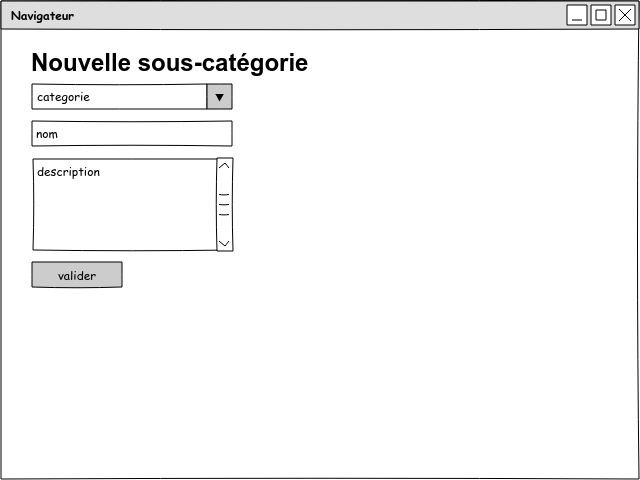
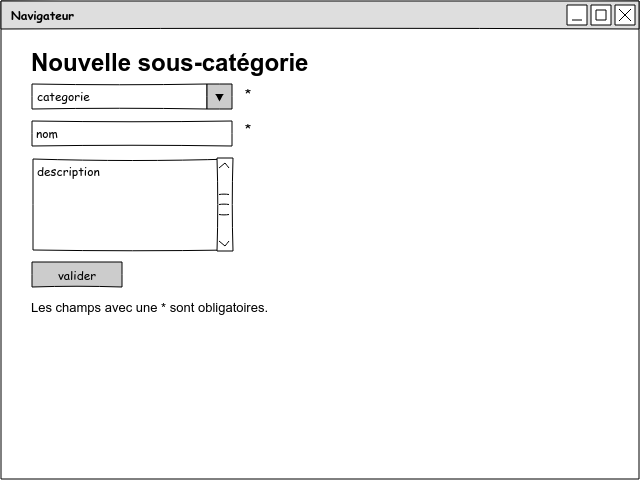
Improve code and doc

diff --git a/templates/new-tool.php b/templates/new-tool.php
@@ -6,6 +6,8 @@
 </head>
 <body>
 
+    <h1>Nouvel outil</h1>
+
     <form method="post" enctype="multipart/form-data">
         <div>
             <?php if (isset($errors['code'])): ?>
@@ -13,7 +15,7 @@
                 <?php echo $errors['code']; ?>
             </div>
             <?php endif; ?>
-            <input type="text" name="code" placeholder="code" value="<?php echo $code; ?>" />
+            <input type="text" name="code" placeholder="code" value="<?php echo $code; ?>" /> <span class="required">*</span>
         </div>
         <div>
             <?php if (isset($errors['name'])): ?>
@@ -21,7 +23,7 @@
                 <?php echo $errors['name']; ?>
             </div>
             <?php endif; ?>
-            <input type="text" name="name" placeholder="nom" value="<?php echo $name; ?>" />
+            <input type="text" name="name" placeholder="nom" value="<?php echo $name; ?>" /> <span class="required">*</span>
         </div>
         <div>
             <?php if (isset($errors['price'])): ?>
@@ -29,7 +31,7 @@
                 <?php echo $errors['price']; ?>
             </div>
             <?php endif; ?>
-            <input type="text" name="price" placeholder="prix" value="<?php echo $price; ?>" />
+            <input type="text" name="price" placeholder="prix" value="<?php echo $price; ?>" /> <span class="required">*</span>
         </div>
         <div>
             <?php if (isset($errors['category'])): ?>
@@ -38,10 +40,14 @@
             </div>
             <?php endif; ?>
             <select name="category">
-                <option value="0">catégorie</option>
-                <option value="1" <?php if ($category == 1): ?>selected <?php endif; ?>>outillage</option>
-                <option value="2" <?php if ($category == 2): ?>selected <?php endif; ?>>matériel</option>
-            </select>
+            <?php
+            foreach ($categories as $key => $value):
+            ?>
+                <option value="<?php echo $key; ?>" <?php if ($category == $key): ?>selected <?php endif; ?>><?php echo $value; ?></option>
+            <?php
+            endforeach;
+            ?>
+            </select> <span class="required">*</span>
         </div>
         <div>
             <!-- ajouter une balise img -->
@@ -51,6 +57,8 @@
             <button>valider</button>
         </div>
     </form>
+
+    <p>Les champs avec une <span class="required">*</span> sont obligatoires.</p>
 
 </body>
 </html>

diff --git a/public/index.php b/public/index.php
@@ -1,5 +1,5 @@
 <?php
-// public/index.php
+
 echo "Hello world!<br>";
 
 // $cb est une variable de type booléen
@@ -16,3 +16,43 @@ if (isset($_GET['email'])) {
     echo $_GET['email'];
 }
 
+$fruits = [
+    'choisissez un fruit',
+    'banane',
+    'fraise',
+    'orange',
+    'poire',
+    'pomme',
+];
+
+foreach ($fruits as $fruit) {
+    echo $fruit.'<br />';
+}
+
+?>
+
+<ul>
+<?php
+foreach ($fruits as $fruit):
+?>
+    <li><?php echo $fruit; ?></li>
+<?php
+endforeach;
+?>
+</ul>
+
+<?php
+foreach ($fruits as $key => $fruit) {
+    echo $key.': '.$fruit.'<br />';
+}
+?>
+
+<select>
+<?php
+foreach ($fruits as $key => $fruit):
+?>
+    <option value="<?php echo $key; ?>"><?php echo $fruit; ?></option>
+<?php
+endforeach;
+?>
+</select>

diff --git a/public/new-tool.php b/public/new-tool.php
@@ -1,8 +1,14 @@
 <?php
-// public/new-tool.php
+
 // echo '<pre>';
 // var_dump($_POST);
 // echo '</pre>';
+
+$categories = [
+    'choisissez la catégorie',
+    'outil',
+    'matériel',
+];
 
 $errors = [];
 

diff --git a/public/inscription.php b/public/inscription.php
@@ -1,5 +1,5 @@
 <?php
-// public/inscription.php
+
 echo '<pre>';
 var_dump($_POST);
 echo '</pre>';

diff --git a/README.md b/README.md
@@ -37,25 +37,32 @@ Pour vous aider à mieux cerner le problème voici une analyse des données.
 
 #### Analyse de la page `new-tool`
 
-- code : chaîne de caractère, balise input type text
-- nom : chaîne de caractère, balise input type text
-- prix : nombre à virgule flottante, balise input type text
-- catégorie : nombre entier, balise select à choix unique
-- photo : fichier, balise input type file
+| champ     | name     | type                       | balise                | obligatoire |
+| --------- | -------- | -------------------------- | --------------------- | ----------- |
+| code      | code     | chaîne de caractère        | input type text       | oui         |
+| nom       | name     | chaîne de caractère        | input type text       | oui         |
+| prix      | price    | nombre à virgule flottante | input type text       | oui         |
+| catégorie | category | nombre entier              | select à choix unique | oui         |
+| photo     | photo    | fichier                    | input type file       | non         |
 
 #### Analyse de la page `new-sub-category`
 
-- catégorie : nombre entier, balise select à choix unique
-- nom : chaîne de caractère, balise input type text
-- description : chaîne de caractère, balise textarea
+| champ       | name        | type                       | balise                | obligatoire |
+| ----------- | ----------- | -------------------------- | --------------------- | ----------- |
+| catégorie   | category    | nombre entier              | select à choix unique | oui         |
+| nom         | name        | chaîne de caractère        | input type text       | oui         |
+| description | description | chaîne de caractère        | textarea              | non         |
 
 ### Livraison
 
 Ce travail est à livrer le vendredi 21/12/2018 à 24h00 au plus tard.
-Pour les retardataires, un délai supplémentaire jusque dimanche 23/12/2018 à 24h00 sera toléré mais je sera beaucoup plus exigeant sur la qualité du travail.
+Pour les retardataires, un délai supplémentaire jusque dimanche 23/12/2018 à 24h00 sera toléré, mais je serai beaucoup plus exigeant sur la qualité du travail.
 Autrement dit, si vous livrez en retard, le travail doit être impécable.
 
 La livraison doit être faite sous la forme d'un fichier zip contenant le dossier du projet.
+
+Vous devez déposer le fichier sur mon espace SFTP.
+Si vous n'y parvenez pas, en dernier recours, envoyez-le-moi par mail.
 
 ### Critères d'évaluation
 
